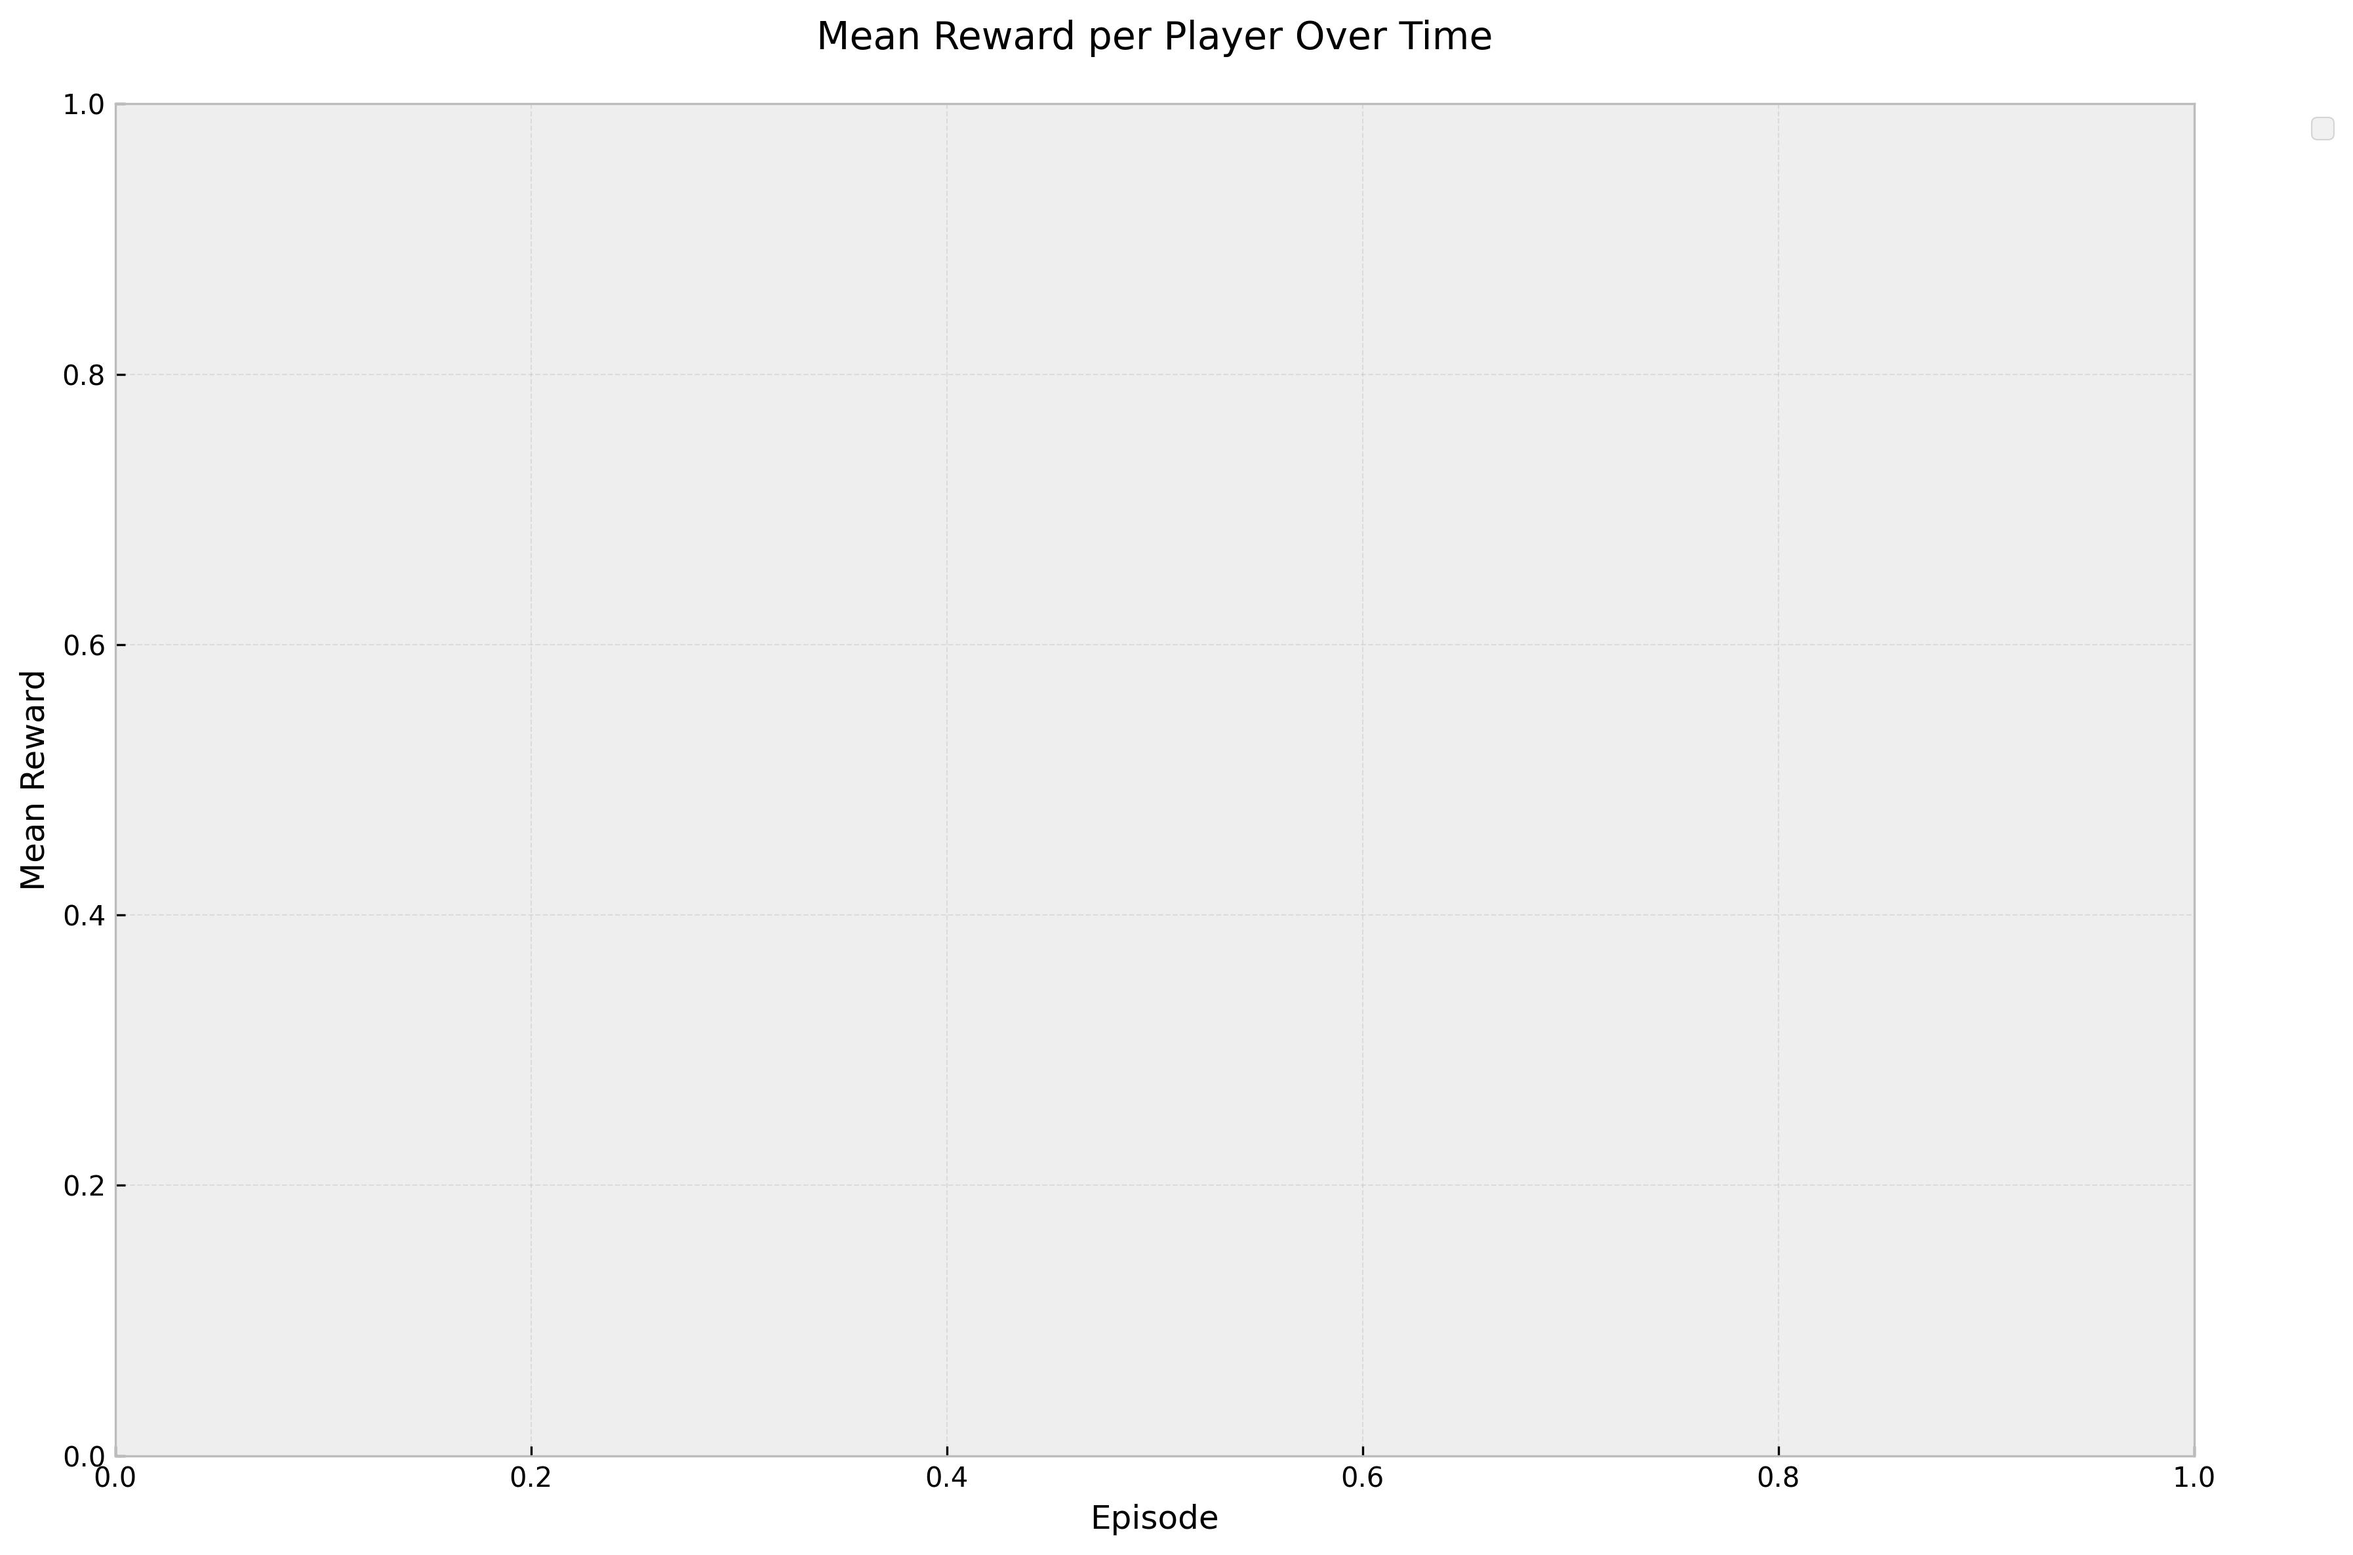
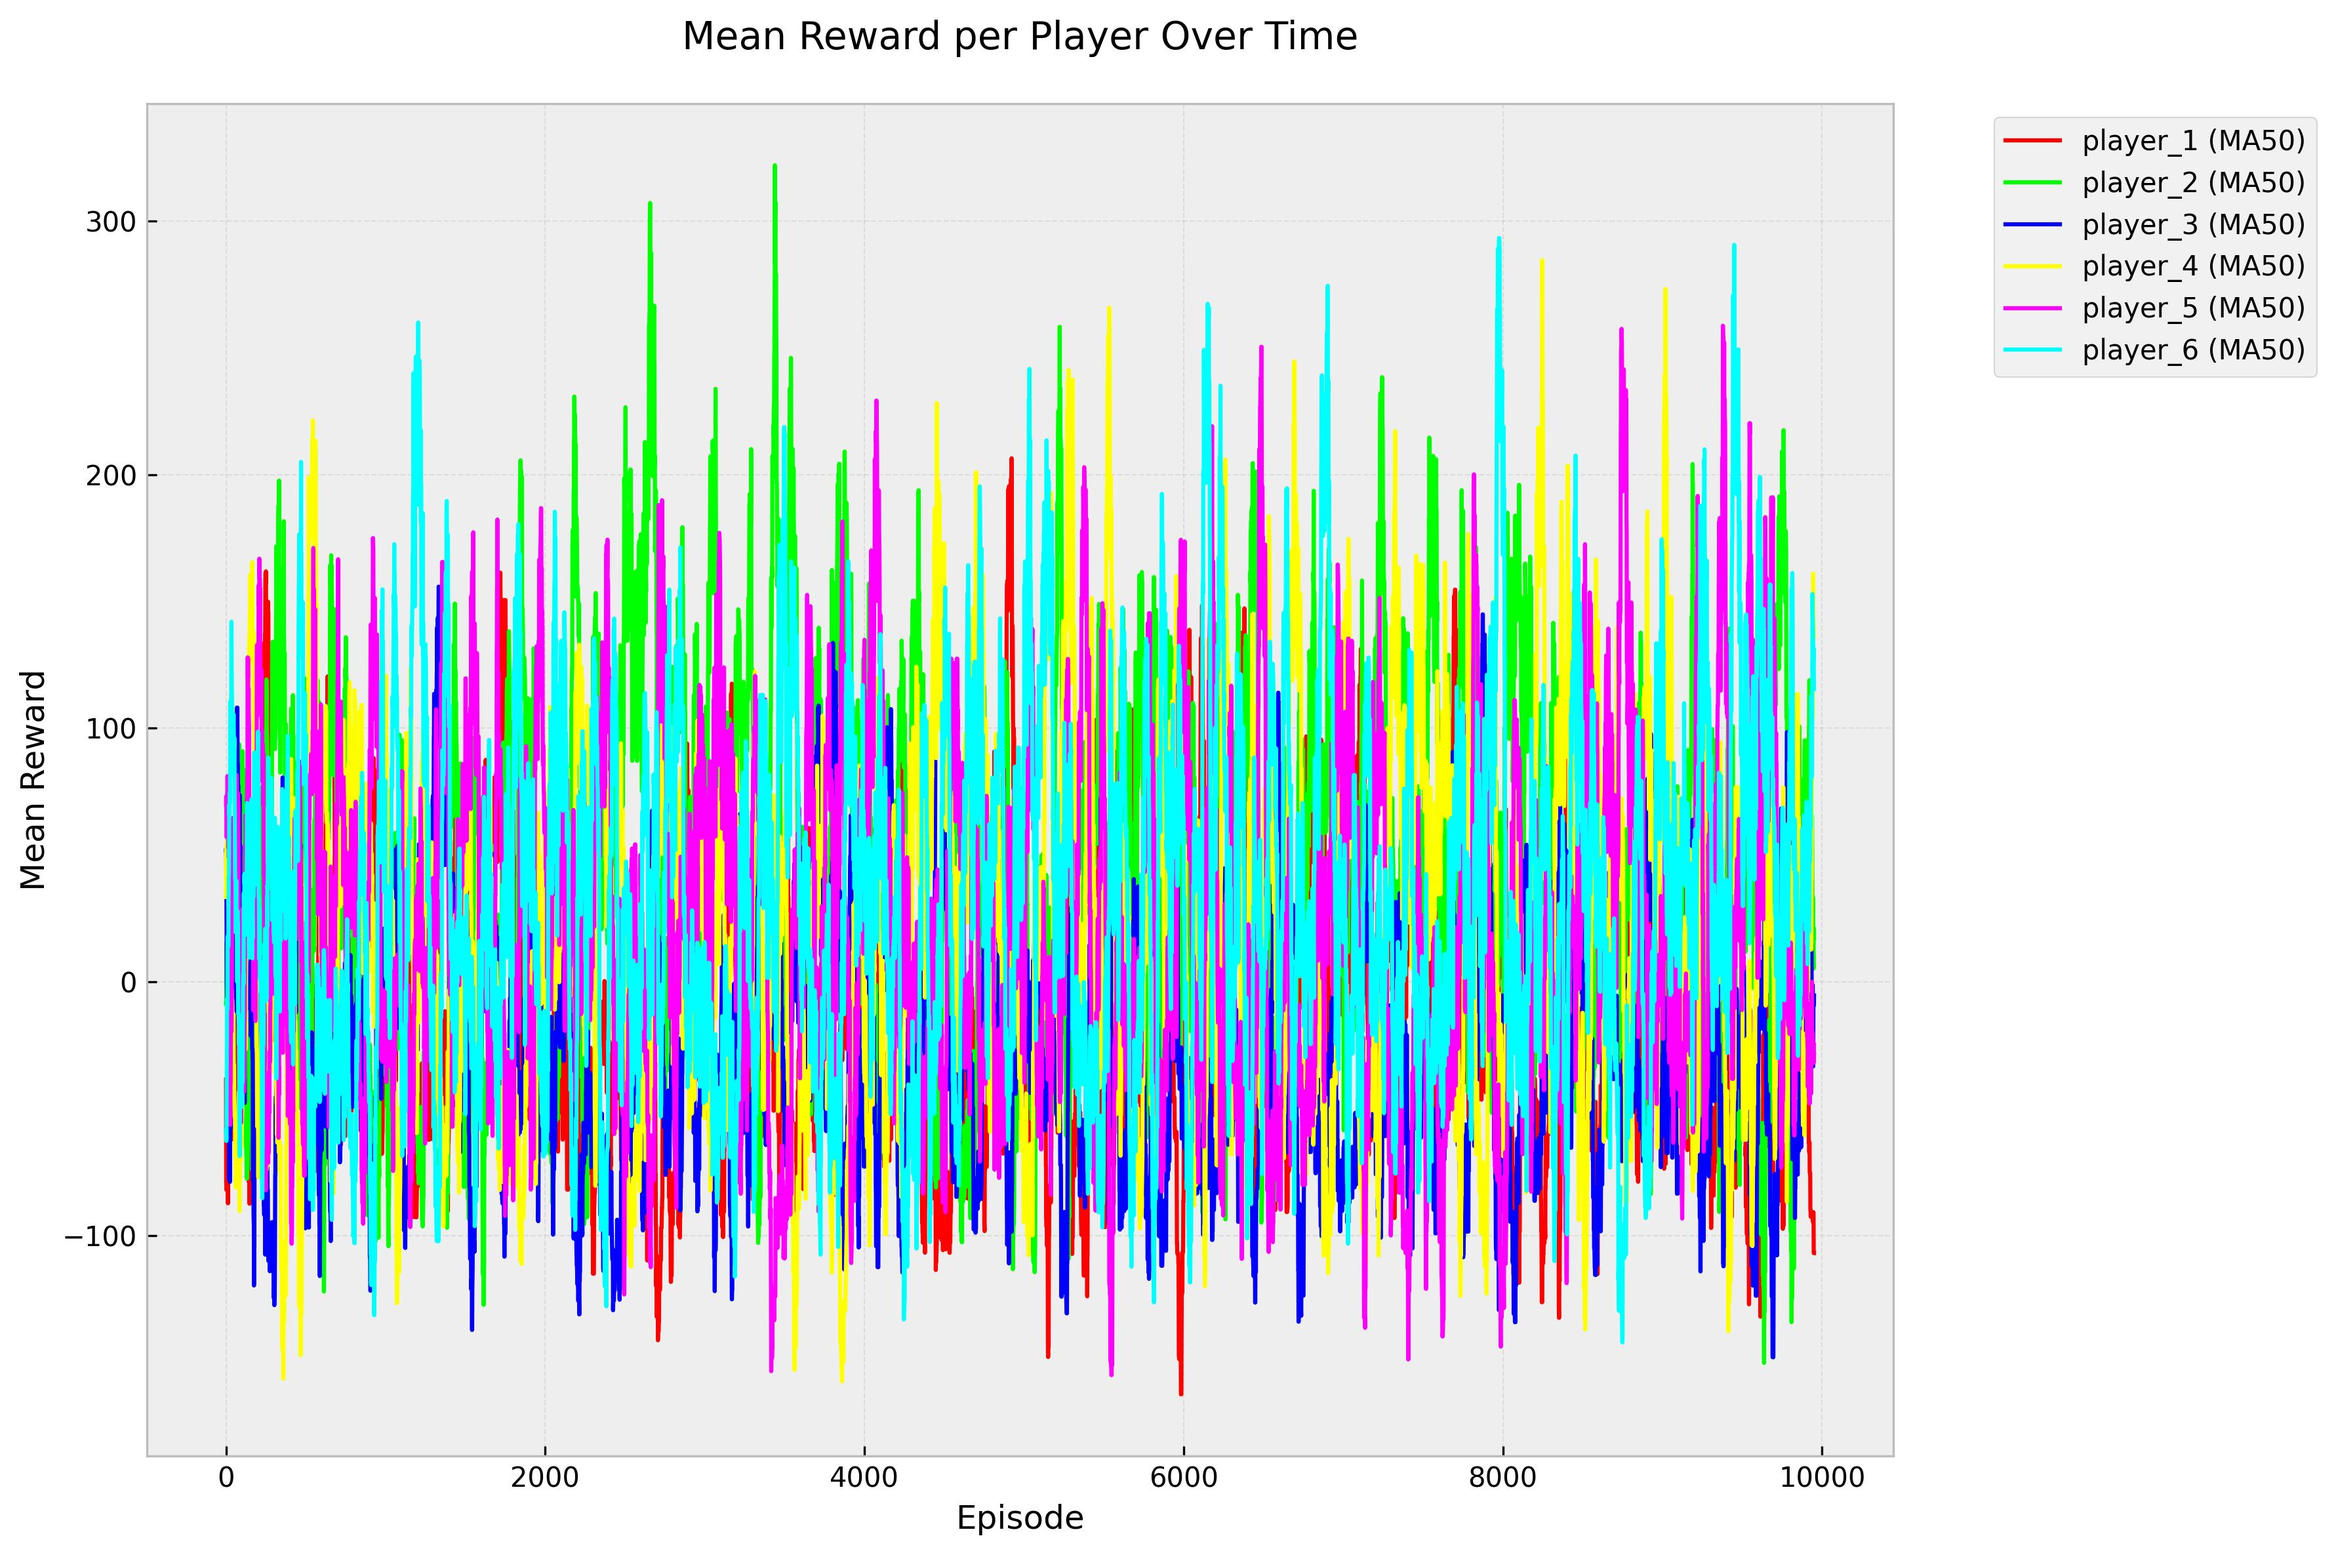
Modify training configuration for model loading and rendering
- Enable model loading for all agents in main script
- Disable epsilon decay in training script
- Enable rendering during training
- Remove purify_saved_models script
- Update visualization images

diff --git a/main.py b/main.py
@@ -13,7 +13,7 @@ for i in range(6):
         action_sizes=[5],  # Updated to 5 actions [check, call, fold, raise, all-in]
         gamma=GAMMA,
         learning_rate=ALPHA,
-        load_model=False,
+        load_model=True,
         load_path=f"saved_models/poker_agent_player_{i+1}.pth"
     )
     agent.name = f"player_{i+1}"

diff --git a/poker_train.py b/poker_train.py
@@ -13,9 +13,9 @@ from vizualization import plot_rewards, update_rewards_history, plot_winning_sta
 EPISODES = 10000
 GAMMA = 0.9985
 ALPHA = 0.003
-EPS_DECAY = 0.9998
+EPS_DECAY =  0.0 #0.9998
 STATE_SIZE = 46
-RENDERING = False
+RENDERING = True
 FPS = 1
 
 def set_seed(seed=42):
